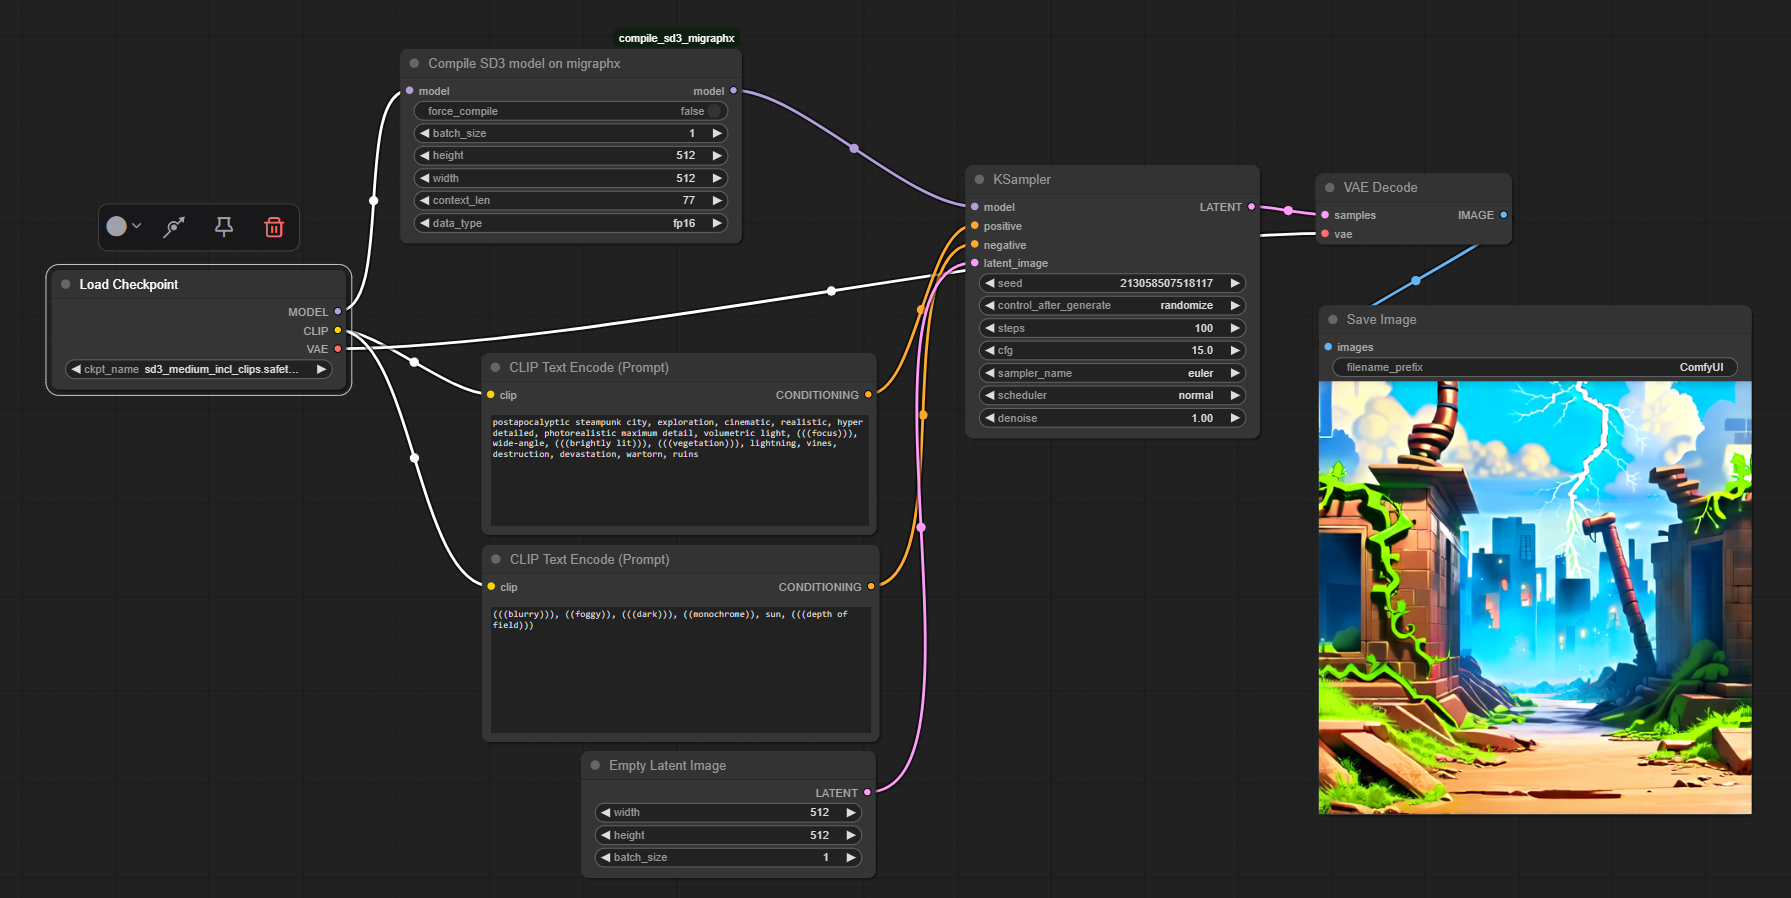
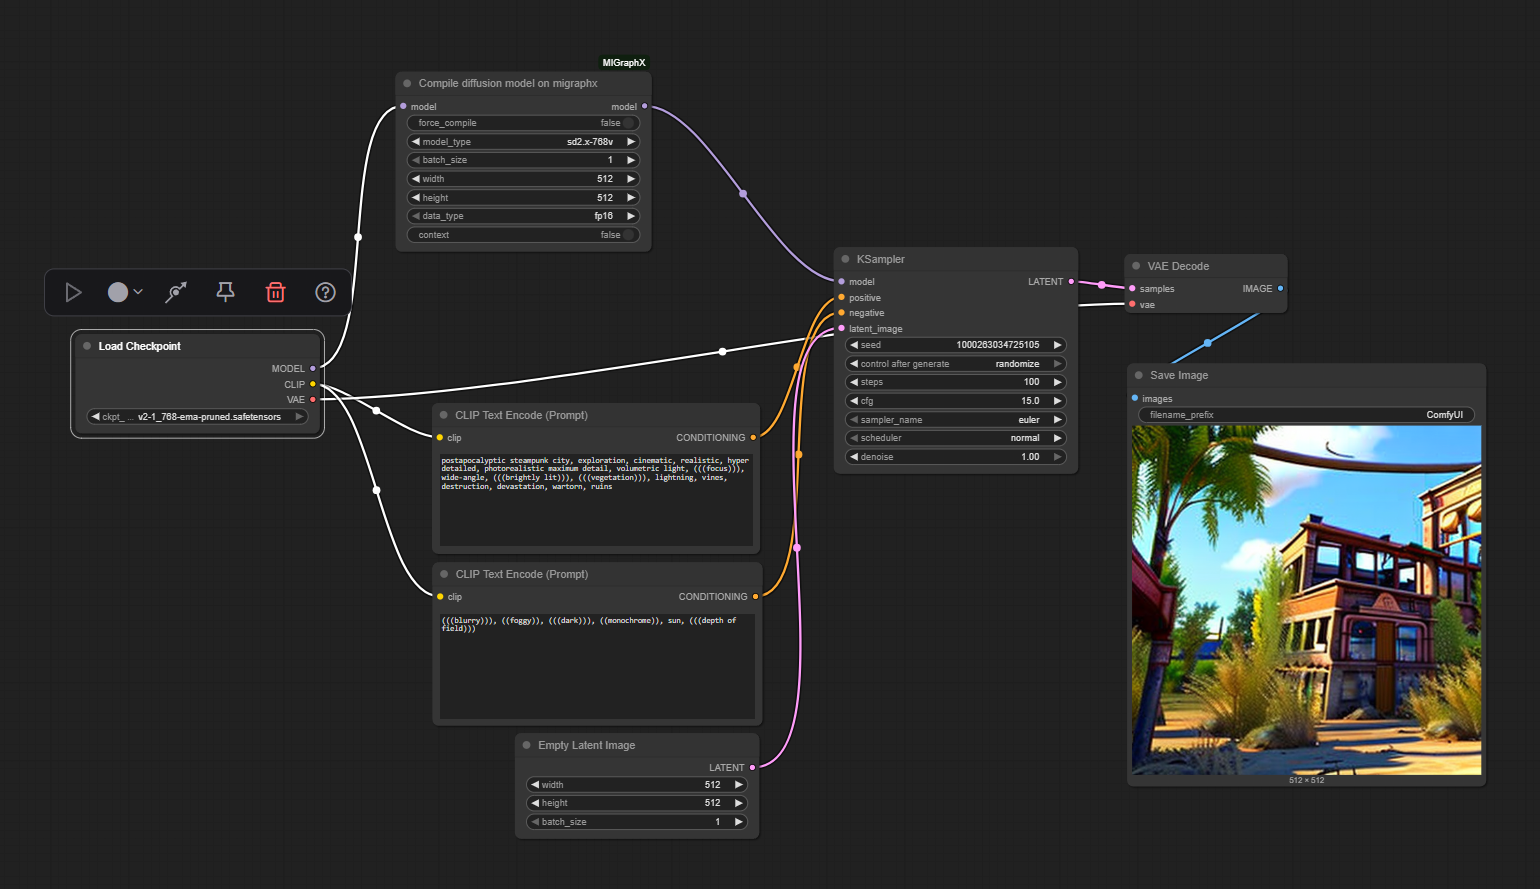
Added support for SD1.5, SD2.1 and SDXL

diff --git a/migraphx_compile_sd3.py b/migraphx_compile_sd3.py
@@ -13,25 +13,27 @@ class CompileDiffusersMIGraphX:
                 "force_compile": ("BOOLEAN", {
                     "default": False, 
                     "tooltip": "When set on false, it will try to load model from mxr file, if file exists.",},),
-                #"model_type": (["sd3", "sd3.5", "flux_dev", "flux_schnell"], ),
-                "model_type": (["sd1.5", "sd3", "sd3.5"], ),
+                "model_type": (["sd1.x", "sd2.x-768v", "sd3.x", "sdxl_base", "sdxl_refiner"], ),
                 "batch_size": ("INT", {
-                    "default": 1, "min": 1, "max": 4, "step": 1,
+                    "default": 1, "min": 1, "max": 32, "step": 1,
                     "tooltip": "Based on value for latent.",
                 },),
                 "width": ("INT", {
-                    "default": 1024, "min": 256, "max": 2048, "step": 8,
+                    "default": 1024, "min": 128, "max": 4096, "step": 128,
                     "tooltip": "Must be same value as value for latent.",
                 },),
                 "height": ("INT", {
-                    "default": 1024, "min": 256, "max": 2048, "step": 8,
+                    "default": 1024, "min": 128, "max": 4096, "step": 128,
                     "tooltip": "Must be same value as value for latent.",
-                },),
-                "context_len": ([77, 154, 256], {
-                    "tooltip": "Depends on text encoders that are used.",
                 },),
                 "data_type": (["fp16", "int8", "fp32", "bfp16"], {
                     "tooltip": "Depends on diffusion model that is loaded.",
+                },),
+            },
+            "optional": {
+                "context": ("BOOLEAN", {
+                    "default": False, 
+                    "tooltip": "True if T5 encoder is used for SD3.x models",
                 },),
             }
         }
@@ -43,27 +45,39 @@ class CompileDiffusersMIGraphX:
     FUNCTION = "compile_on_MIGraphX"
     CATEGORY = "advanced/migraphx"
 
-    def compile_on_MIGraphX(self, model, force_compile, model_type, batch_size, height, width, context_len, data_type):    
-        if model_type == "sd1.5":
+    def compile_on_MIGraphX(self, model, force_compile, model_type, batch_size, height, width, data_type, context):    
+        if model_type == "sd1.x":
             conf = comfy.supported_models.SD15({})
             conf.unet_config["disable_unet_model_creation"] = True
             comfy_model = comfy.model_base.BaseModel(conf)
-        elif model_type == "sd3" or  model_type == "sd3.5":
+        elif model_type == "sd2.x-768v":
+            conf = comfy.supported_models.SD20({})
+            conf.unet_config["disable_unet_model_creation"] = True
+            comfy_model = comfy.model_base.BaseModel(conf, model_type=comfy.model_base.ModelType.V_PREDICTION)
+        elif model_type == "sd3.x":
             conf = comfy.supported_models.SD3({})
             conf.unet_config["disable_unet_model_creation"] = True
             comfy_model = conf.get_model({}) 
-        #elif model_type == "flux_dev":
-        #    conf = comfy.supported_models.Flux({})
-        #elif model_type == "flux_schnell":
-        #    conf = comfy.supported_models.FluxSchnell({})  
+        elif model_type == "sdxl_base":
+            conf = comfy.supported_models.SDXL({"adm_in_channels": 2816})
+            conf.unet_config["disable_unet_model_creation"] = True
+            comfy_model = comfy.model_base.SDXL(conf)
+        elif model_type == "sdxl_refiner":
+            conf = comfy.supported_models.SDXLRefiner(
+                {"adm_in_channels": 2560})
+            conf.unet_config["disable_unet_model_creation"] = True
+            comfy_model = comfy.model_base.SDXLRefiner(conf) 
         else:
             print("ERROR: model not supported.")
             return ()  
 
-        mxr_file_name = f"{model_type}_{batch_size}_{width}_{height}_{context_len}_{data_type}.mxr"       
+        mxr_file_name = f"{model_type}_{batch_size}_{width}_{height}_{data_type}.mxr"
+        
+        if model_type in ["sd1.x", "sd2.x-768v", "sd3.x"]:
+            batch_size = batch_size * 2
 
         comfy_model.diffusion_model = load_MGX_transformer_model(model, force_compile, mxr_file_name, 
-                                                                batch_size, height, width, context_len,
+                                                                batch_size, height, width, context,
                                                                 data_type)
         comfy_model.memory_required = lambda *args, **kwargs: 0
 

diff --git a/migraphx_utils.py b/migraphx_utils.py
@@ -100,7 +100,7 @@ def convert_model_to_ONNX(onnx_tmp_dir: Union[str, os.PathLike],
                            batch_size: int, 
                            height: int, 
                            width: int, 
-                           context_len: int,
+                           context: bool,
                            dtype: Type) -> Dict:
     onnx_file_path = os.path.join(onnx_tmp_dir, "model.onnx")
 
@@ -109,6 +109,7 @@ def convert_model_to_ONNX(onnx_tmp_dir: Union[str, os.PathLike],
     transformer = model.model.diffusion_model
 
     context_dim = model.model.model_config.unet_config.get("context_dim", None)
+    context_len = 77
     y_dim = model.model.adm_channels
     extra_input = {}
     dtype = torch.float16
@@ -117,11 +118,8 @@ def convert_model_to_ONNX(onnx_tmp_dir: Union[str, os.PathLike],
         context_embedder_config = model.model.model_config.unet_config.get("context_embedder_config", None)
         if context_embedder_config is not None:
             context_dim = context_embedder_config.get("params", {}).get("in_features", None)
-    elif isinstance(model.model, comfy.model_base.Flux):
-        context_dim = model.model.model_config.unet_config.get("context_in_dim", None)
-        y_dim = model.model.model_config.unet_config.get("vec_in_dim", None)
-        extra_input = {"guidance": ()}
-        dtype = torch.bfloat16
+            if context:
+               context_len = 154 
 
     if context_dim is not None:
         input_names = ["x", "timesteps", "context"]
@@ -222,14 +220,14 @@ def load_from_mxr(mxr_file_path: Union[str, os.PathLike]):
     return model
 
 def load_MGX_transformer_model(model: comfy.model_base.BaseModel, force_compile: bool, mxr_file_name: str,
-                                batch_size: int, height: int, width: int, context_len: int, data_type: str) -> MgxTransformer:
+                                batch_size: int, height: int, width: int, context: bool, data_type: str) -> MgxTransformer:
     transformer_mgx = None
     mxr_file_path = create_path(f"mgx_files/{mxr_file_name}")
     if force_compile or not os.path.isfile(mxr_file_path):
         create_dir(create_path("mgx_files"))
         onnx_tmp_dir = create_dir(create_path("mgx_files/tmp"))
 
-        input_shapes = convert_model_to_ONNX(onnx_tmp_dir, model, batch_size, height, width, context_len, 
+        input_shapes = convert_model_to_ONNX(onnx_tmp_dir, model, batch_size, height, width, context, 
                                              DATA_TYPES[data_type])
         comfy.model_management.unload_all_models()
         comfy.model_management.soft_empty_cache()

diff --git a/README.md b/README.md
@@ -4,8 +4,11 @@ This node enables better performance for Stable Diffusion models, by leveraging 
 
 Supports:
 
+* Stable Diffusion 1.5 ([huggingface model](https://huggingface.co/stable-diffusion-v1-5/stable-diffusion-v1-5))
+* Stable Diffusion 2.1 ([huggingface model](https://huggingface.co/stabilityai/stable-diffusion-2-1))
 * Stable Diffusion 3.0 medium ([huggingface model](https://huggingface.co/stabilityai/stable-diffusion-3-medium))
 * Stable Diffusion 3.5 medium ([huggingface model](https://huggingface.co/stabilityai/stable-diffusion-3.5-medium))
+* SDXL ([huggingface model](https://huggingface.co/stabilityai/stable-diffusion-xl-base-1.0)), ([huggingface model](https://huggingface.co/stabilityai/stable-diffusion-xl-refiner-1.0))
 * Other models to be supported...
 
 ## Installing
